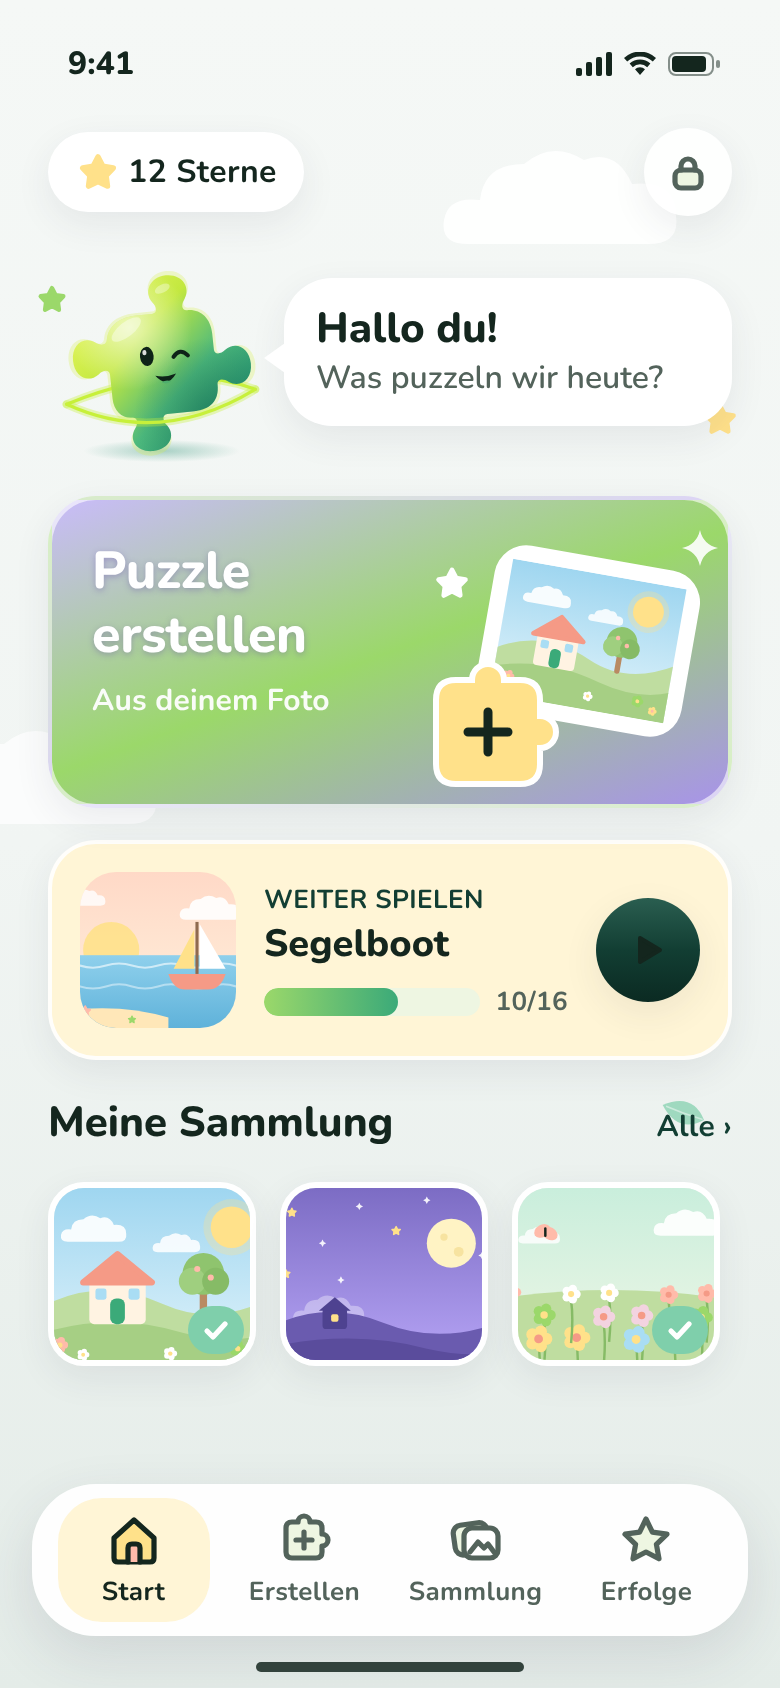
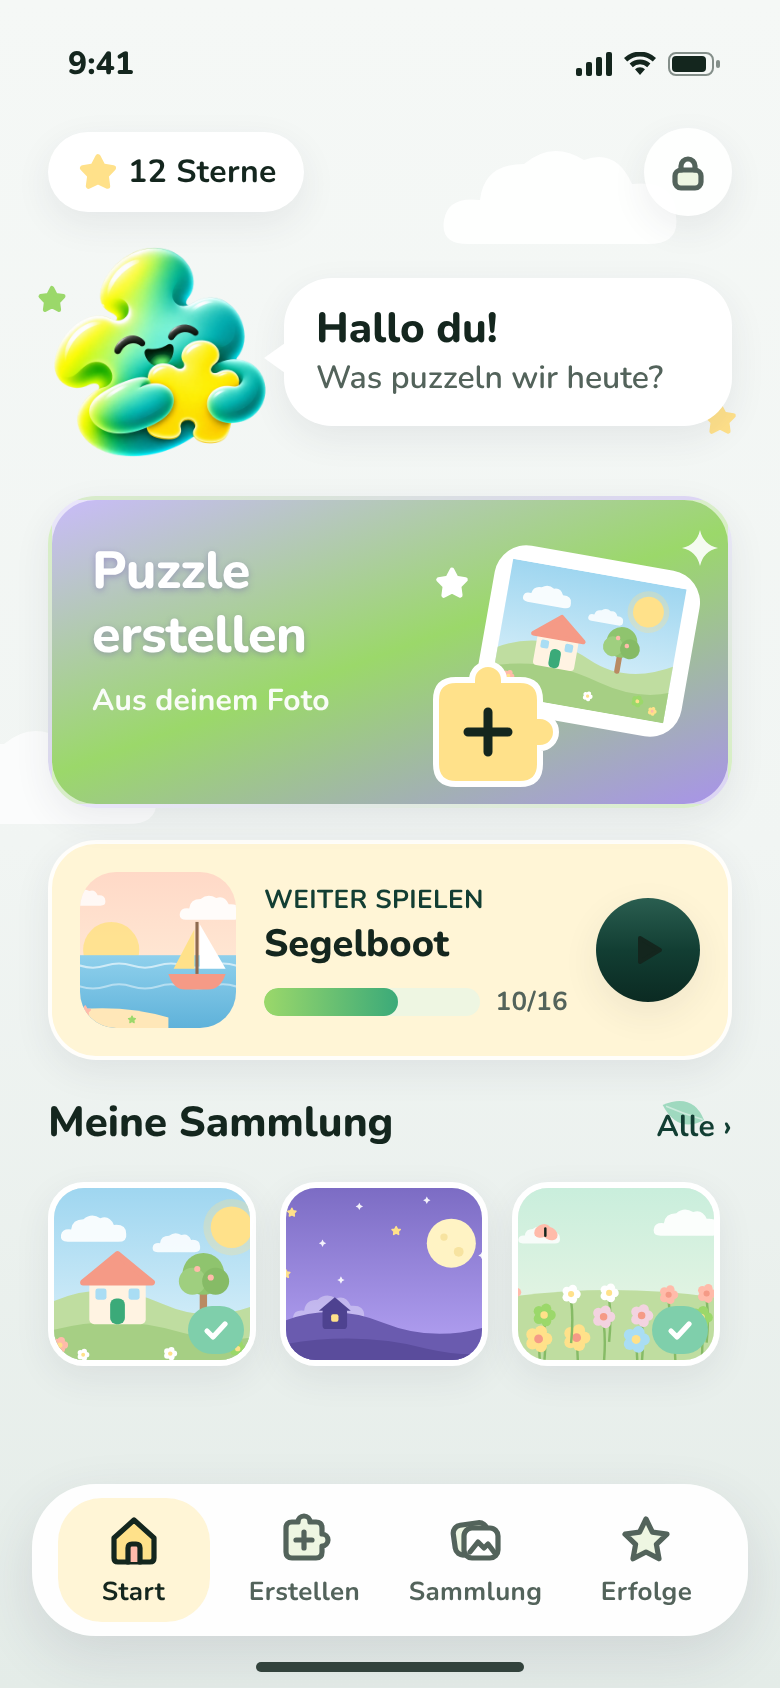
docs: place the new Pino artwork and background (change 04)
Claude-Session: https://claude.ai/code/session_01CZ9FFcy5zGQryXQRGVkaUU

Changed region(s): [[0.0615, 0.1232, 0.3385, 0.2773]]

diff --git a/docs/previews/milestone-reports/2026-11-05-update-04-new-artwork.md b/docs/previews/milestone-reports/2026-11-05-update-04-new-artwork.md
@@ -1,0 +1,33 @@
+# Änderung 04 – Neue Pino-Bilder und erster gemalter Hintergrund
+
+**Datum:** 2026-11-05 · **Anlass:** neue Bilder des PO („positioniere diese passend in der App, weitere folgen“) · **Status:** umgesetzt, wartet auf Review
+
+> Bilder stammen aus der **laufenden App** (Web via Chromium; Android-/iOS-Läufe siehe unten). Originale unverändert in `docs/design/mascot-art/` und `docs/design/background-art/`.
+
+## Zuordnung
+
+| Bild des PO                          | Wird in der App zu                      | Wo es erscheint                                                              |
+| ------------------------------------ | --------------------------------------- | ---------------------------------------------------------------------------- |
+| Pino umarmt Puzzleteil (ohne „!“)    | Stimmung **Fröhlich** (`happy`)         | Startseite, Profil „Kleine Puzzler“, Pino-Tipp im Spiel, angefangenes Puzzle |
+| Pino mit Schild und Schloss          | **neue Stimmung „Beschützt“** (`guard`) | Eltern-Schranke „Nur für Erwachsene“                                         |
+| Pino schläft auf einer Wolke         | Stimmung **Schläft** (`sleeping`)       | leere Sammlung (Startseite und Tab „Sammlung“)                               |
+| Pino umarmt Puzzleteil mit „!“       | –                                       | war schon als „Begeistert“ in der App (pixelgleich)                          |
+| Himmel mit Wolken, Funkeln und Wiese | Hintergrund **`skyMeadow`**             | Startscreen und Begrüßung                                                    |
+
+- Alle drei Figuren hatten echte Transparenz. Zuschnitt quadratisch, Verkleinerung mit vormultiplizierter Transparenz – **kein grauer Rand** (Kantenhelligkeit wie im Original gemessen).
+- **Hintergrund:** Das Bild ist im Querformat (1785 × 881). Auf dem Handy (Hochformat) wird es „cover“ eingesetzt: man sieht die Mitte mit den Wolkenrändern und die Wiese unten; die Wolken links/rechts werden abgeschnitten. Für das Handy wäre eine Hochformat-Fassung **1290 × 2796 px** ideal (Tablet: 2048 × 2732 px) – dann bleiben auch die Wolken sichtbar.
+- Bild-Hintergründe sind jetzt zentral möglich: ein Eintrag in `packages/ui/src/illustrations/backgroundArt.ts`, die Screens wählen nur das Preset.
+
+## Bilder
+
+| Startscreen                                                      | Begrüßung                                                   | Startseite (Fröhlich)                                    | Leere Sammlung (Schläft)                                             | Eltern-Schranke (Beschützt)                                     |
+| ---------------------------------------------------------------- | ----------------------------------------------------------- | -------------------------------------------------------- | -------------------------------------------------------------------- | --------------------------------------------------------------- |
+| ![](../screenshots/2026-11-05-update-04-web-01-start-screen.png) | ![](../screenshots/2026-11-05-update-04-web-02-welcome.png) | ![](../screenshots/2026-11-05-update-04-web-04-home.png) | ![](../screenshots/2026-11-05-update-04-web-05-collection-empty.png) | ![](../screenshots/2026-11-05-update-04-web-06-parent-gate.png) |
+
+## Noch offen (Bilder folgen vom PO)
+
+Stimmungen **Geschafft!** (Feier nach dem Puzzle, Erfolge), **Ermutigung** (Erfolge ohne Sterne) und **Überrascht** (derzeit nicht verwendet) – bis dahin Vektor-Nachzeichnung.
+
+## Prüfung
+
+TypeScript, ESLint, Prettier ✅ · Tests ✅ (UI 63 – prüft, dass jede eingetragene Bilddatei existiert und eingebunden ist) · Web ohne Fehlermeldungen ✅ · Android-Emulator / iOS-Simulator: Läufe gestartet, Ergebnis wird hier nachgetragen.

diff --git a/docs/design/mascot-guidelines.md b/docs/design/mascot-guidelines.md
@@ -43,12 +43,15 @@ Die Screens ändern sich dafür nicht – `<Mascot>` zeigt für jede Stimmung mi
 
 **Stand der Lieferung**
 
-| `emotion`  | Quelle                                                                                           | Hinweis                                                                         |
-| ---------- | ------------------------------------------------------------------------------------------------ | ------------------------------------------------------------------------------- |
-| `greeting` | **Original PO – Hauptlogo** (Pino mit Funkeln, 2026-11-05), auch App-Icon, Startbild, Ladescreen | 1312 × 1199 px; Hintergrund war eingebrannt (Karomuster) und wurde freigestellt |
-| `thinking` | **Original PO** (Pino mit Lupe)                                                                  | 517 × 401 px – größer besser                                                    |
-| `excited`  | **Original PO** (Pino umarmt ein Puzzleteil, „!“-Striche), Startscreen u. a.                     | 1312 × 1199 px, transparent vom PO                                              |
-| übrige 5   | Vektor-Nachzeichnung (`pino.ts`)                                                                 | Bilder folgen vom PO                                                            |
+| `emotion`                           | Quelle                                                           | Hinweis                                                             |
+| ----------------------------------- | ---------------------------------------------------------------- | ------------------------------------------------------------------- |
+| `greeting`                          | **Original PO – Hauptlogo** (Pino mit Funkeln)                   | Begrüßung, Profil „Puzzle-Kids“, App-Icon, Startbild                |
+| `excited`                           | **Original PO** (umarmt Puzzleteil, „!“-Striche)                 | Startscreen, Profil „Puzzle-Profis“, Jubel im Spiel                 |
+| `thinking`                          | **Original PO** (mit Lupe)                                       | kurze Ladeanzeigen, Rückfragen, leere Zustände                      |
+| `happy`                             | **Original PO** (umarmt Puzzleteil, ohne „!“)                    | Startseite, Profil „Kleine Puzzler“, Pino-Tipp, angefangenes Puzzle |
+| `sleeping`                          | **Original PO** (schläft auf einer Wolke, Zzz, Sterne)           | leere Sammlung (Startseite, Tab Sammlung)                           |
+| `guard`                             | **Original PO** (Schild mit Schloss) – neue Stimmung „Beschützt“ | Eltern-Schranke                                                     |
+| `success`, `encourage`, `surprised` | Vektor-Nachzeichnung (`pino.ts`)                                 | Feier, Erfolge – Bilder folgen vom PO                               |
 
 **So kommt ein neues Bild in die App:** Original unverändert nach `docs/design/mascot-art/` (Datum + Stimmung im Namen), daraus die quadratisch zugeschnittene, transparente App-Fassung nach `packages/ui/assets/mascot/<emotion>.png`, Eintrag in `mascot/art.ts` und `mascot/artSources.ts` (ein Test prüft, dass beide übereinstimmen und die Datei existiert), danach `pnpm brand:assets` und `pnpm design:preview`.
 
